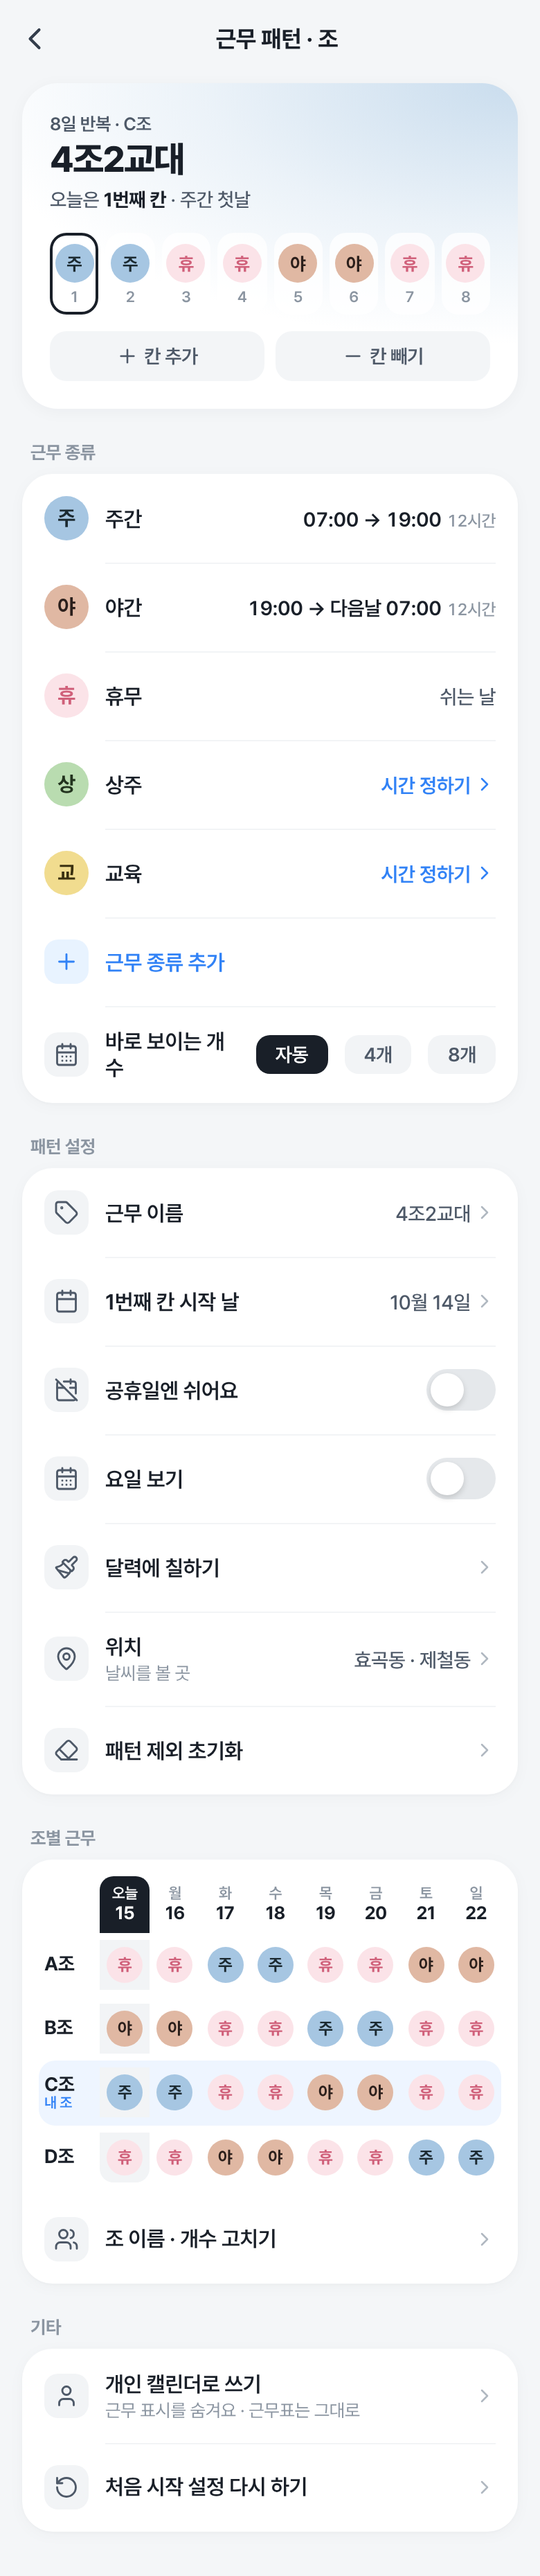
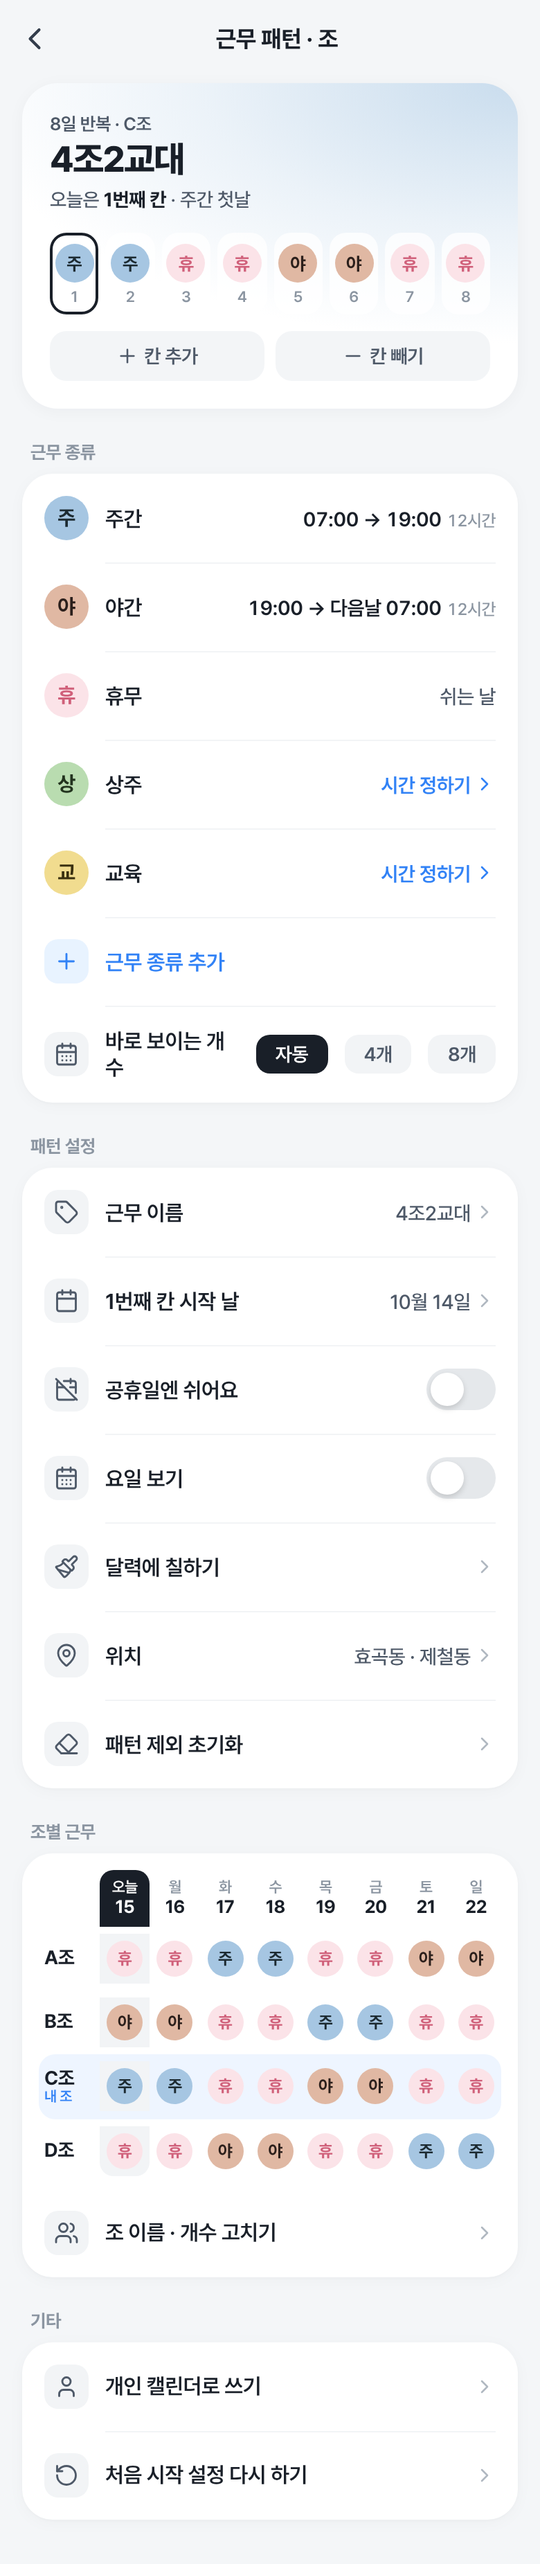
시안 3개 설명문 빼기 · 규칙: 설명문 넣지 않기
Claude-Session: https://claude.ai/code/session_01JTBnEvptp151JygSjZNCTX

diff --git a/design/family-link/v1.html b/design/family-link/v1.html
@@ -120,7 +120,7 @@ h2{font-size:13px;font-weight:700;color:var(--ink3);margin:24px 6px 8px}
   <path d="M8 13h.01" />
   <path d="M16 13h.01" />
   <path d="M10 16s.8 1 2 1c1.3 0 2-1 2-1" />
-</svg></span><div class="l"><div class="n">내 스티커</div><div class="d">약은 기본으로 안 보여요</div></div><span class="tg on"></span></div>
+</svg></span><div class="l"><div class="n">내 스티커</div></div><span class="tg on"></span></div>
 <div class="r "><span class="ti"><svg
   class="lucide lucide-cloud-sun"
   xmlns="http://www.w3.org/2000/svg"
@@ -139,7 +139,7 @@ h2{font-size:13px;font-weight:700;color:var(--ink3);margin:24px 6px 8px}
   <path d="m19.07 4.93-1.41 1.41" />
   <path d="M15.947 12.65a4 4 0 0 0-5.925-4.128" />
   <path d="M13 22H7a5 5 0 1 1 4.9-6H13a3 3 0 0 1 0 6Z" />
-</svg></span><div class="l"><div class="n">출퇴근 날씨 · 근무 시간</div><div class="d">집 · 직장 동네만 (주소 아님)</div></div><span class="v">날씨 켜면</span></div>
+</svg></span><div class="l"><div class="n">출퇴근 날씨 · 근무 시간</div></div><span class="v">날씨 켜면</span></div>
 </div>
 <h2>알림</h2><div class="g">
 <div class="r "><span class="ti"><svg
@@ -156,7 +156,7 @@ h2{font-size:13px;font-weight:700;color:var(--ink3);margin:24px 6px 8px}
 >
   <path d="M6 8a6 6 0 0 1 12 0c0 7 3 9 3 9H3s3-2 3-9" />
   <path d="M10.3 21a1.94 1.94 0 0 0 3.4 0" />
-</svg></span><div class="l"><div class="n">가족 알림</div><div class="d">이름 · 날짜만 · 내용은 빼고</div></div><span class="tg on"></span></div>
+</svg></span><div class="l"><div class="n">가족 알림</div></div><span class="tg on"></span></div>
 <div class="r "><span class="ti"><svg
   class="lucide lucide-sticky-note"
   xmlns="http://www.w3.org/2000/svg"
@@ -171,7 +171,7 @@ h2{font-size:13px;font-weight:700;color:var(--ink3);margin:24px 6px 8px}
 >
   <path d="M16 3H5a2 2 0 0 0-2 2v14a2 2 0 0 0 2 2h14a2 2 0 0 0 2-2V8Z" />
   <path d="M15 3v4a2 2 0 0 0 2 2h4" />
-</svg></span><div class="l"><div class="n">포스트잇 알림</div><div class="d">새로 붙이기 · 줄 추가 · 다 끝남</div></div><span class="tg on"></span></div>
+</svg></span><div class="l"><div class="n">포스트잇 알림</div></div><span class="tg on"></span></div>
 <div class="r "><span class="ti"><svg
   class="lucide lucide-moon"
   xmlns="http://www.w3.org/2000/svg"

diff --git a/design/alarm-edit/v7.html b/design/alarm-edit/v7.html
@@ -70,7 +70,7 @@ h2{font-size:13px;font-weight:700;color:var(--ink3);margin:24px 6px 8px}
   <path d="M3 11v-1a4 4 0 0 1 4-4h14" />
   <path d="m7 22-4-4 4-4" />
   <path d="M21 13v1a4 4 0 0 1-4 4H3" />
-</svg></span><div class="l"><div class="n">근무가 돌아올 때마다</div><div class="d">끄면 한 번만 울려요</div></div><span class="tg on"></span></div>
+</svg></span><div class="l"><div class="n">근무가 돌아올 때마다</div></div><span class="tg on"></span></div>
 <div class="r"><span class="ti"><svg
   class=" lucide lucide-calendar-off"
   xmlns="http://www.w3.org/2000/svg"
@@ -186,7 +186,7 @@ h2{font-size:13px;font-weight:700;color:var(--ink3);margin:24px 6px 8px}
   <path d="M10.3 21a1.94 1.94 0 0 0 3.4 0" />
   <path d="M4 2C2.8 3.7 2 5.7 2 8" />
   <path d="M22 8c0-2.3-.8-4.3-2-6" />
-</svg></span><div class="l"><div class="n">5분 전 미리 알림</div><div class="d">먼저 깨면 이번만 끄기</div></div><span class="tg on"></span></div>
+</svg></span><div class="l"><div class="n">5분 전 미리 알림</div></div><span class="tg on"></span></div>
 <div class="r"><span class="ti"><svg
   class=" lucide lucide-cloud-sun"
   xmlns="http://www.w3.org/2000/svg"
@@ -224,7 +224,7 @@ h2{font-size:13px;font-weight:700;color:var(--ink3);margin:24px 6px 8px}
   <path d="M10 9H8" />
   <path d="M16 13H8" />
   <path d="M16 17H8" />
-</svg></span><div class="l"><div class="n">알람 화면에 한 줄</div><div class="d">메모 · 할 일 · 근무 요청</div></div><span class="tg on"></span></div>
+</svg></span><div class="l"><div class="n">알람 화면에 한 줄</div></div><span class="tg on"></span></div>
 </div>
 <div class="del"><svg
   class=" lucide lucide-trash-2"

diff --git a/design/pattern/v1.html b/design/pattern/v1.html
@@ -308,7 +308,7 @@ h2{font-size:13px;font-weight:700;color:var(--ink3);margin:24px 6px 8px}
 >
   <path d="M20 10c0 4.993-5.539 10.193-7.399 11.799a1 1 0 0 1-1.202 0C9.539 20.193 4 14.993 4 10a8 8 0 0 1 16 0" />
   <circle cx="12" cy="10" r="3" />
-</svg></span><div class="l"><div class="n">위치</div><div class="d">날씨를 볼 곳</div></div><span class="v ">효곡동 · 제철동<svg
+</svg></span><div class="l"><div class="n">위치</div></div><span class="v ">효곡동 · 제철동<svg
   class="lucide lucide-chevron-right"
   xmlns="http://www.w3.org/2000/svg"
   width="16"
@@ -398,7 +398,7 @@ h2{font-size:13px;font-weight:700;color:var(--ink3);margin:24px 6px 8px}
 >
   <path d="M19 21v-2a4 4 0 0 0-4-4H9a4 4 0 0 0-4 4v2" />
   <circle cx="12" cy="7" r="4" />
-</svg></span><div class="l"><div class="n">개인 캘린더로 쓰기</div><div class="d">근무 표시를 숨겨요 · 근무표는 그대로</div></div><span class="v "><svg
+</svg></span><div class="l"><div class="n">개인 캘린더로 쓰기</div></div><span class="v "><svg
   class="lucide lucide-chevron-right"
   xmlns="http://www.w3.org/2000/svg"
   width="16"

diff --git a/CLAUDE.md b/CLAUDE.md
@@ -4,7 +4,7 @@
   (코드를 이 브랜치에 올리면 APK 빌드가 자동으로 돌기 때문)
 - **기획한 건 바로 고치지 말고 docs/TODO.md 목록에만 쌓는다.** "만들어" 하면 모아서 한꺼번에 만든다 (토큰 아끼기).
 - **기획을 들으면 먼저 좋은지 판단해서 말한다.** 좋으면 바로 docs/TODO.md 에 저장 · 보통이거나 안 좋으면 저장하지 말고 이유 · 대안을 말하고 사용자가 정한다.
-- 원칙: 복잡해 보이지 않게. 안 쓰는 사람 화면엔 늘어나는 게 없게.
+- 원칙: 복잡해 보이지 않게. 안 쓰는 사람 화면엔 늘어나는 게 없게. **미니멀 — 설명문(회색 작은 글씨)은 넣지 않는다.** 꼭 알아야 하는 건 "이럴 땐 이렇게" 팁으로. 상태 값(근무자 · 보기만 등)만 남김.
 - 큰 작업 뒤엔 "기존 저장 데이터로 켜지는지" 브라우저 시험을 꼭 돌린다 (normalize 가 실패하면 데이터를 못 읽음).
 - 사용자와는 한국어로, 쉬운 말로. **답은 짧게** — 결과 먼저, 꼭 필요한 것만 (긴 설명 · 표 · 반복 요약 빼기).
 - **사용자가 새 기능을 제안하면 그대로 받아 적지 말고 먼저 판단해서 솔직하게 말한다**: 꼭 필요한지 · 이미 있는 기능과 겹치는지(어디와) · 안 쓰는 사람 화면에 늘어나는 게 있는지 · 더 작은 방법이 있는지. 필요 없거나 복잡해지면 이유와 대안을 말하고, 결정은 사용자가 한다.
